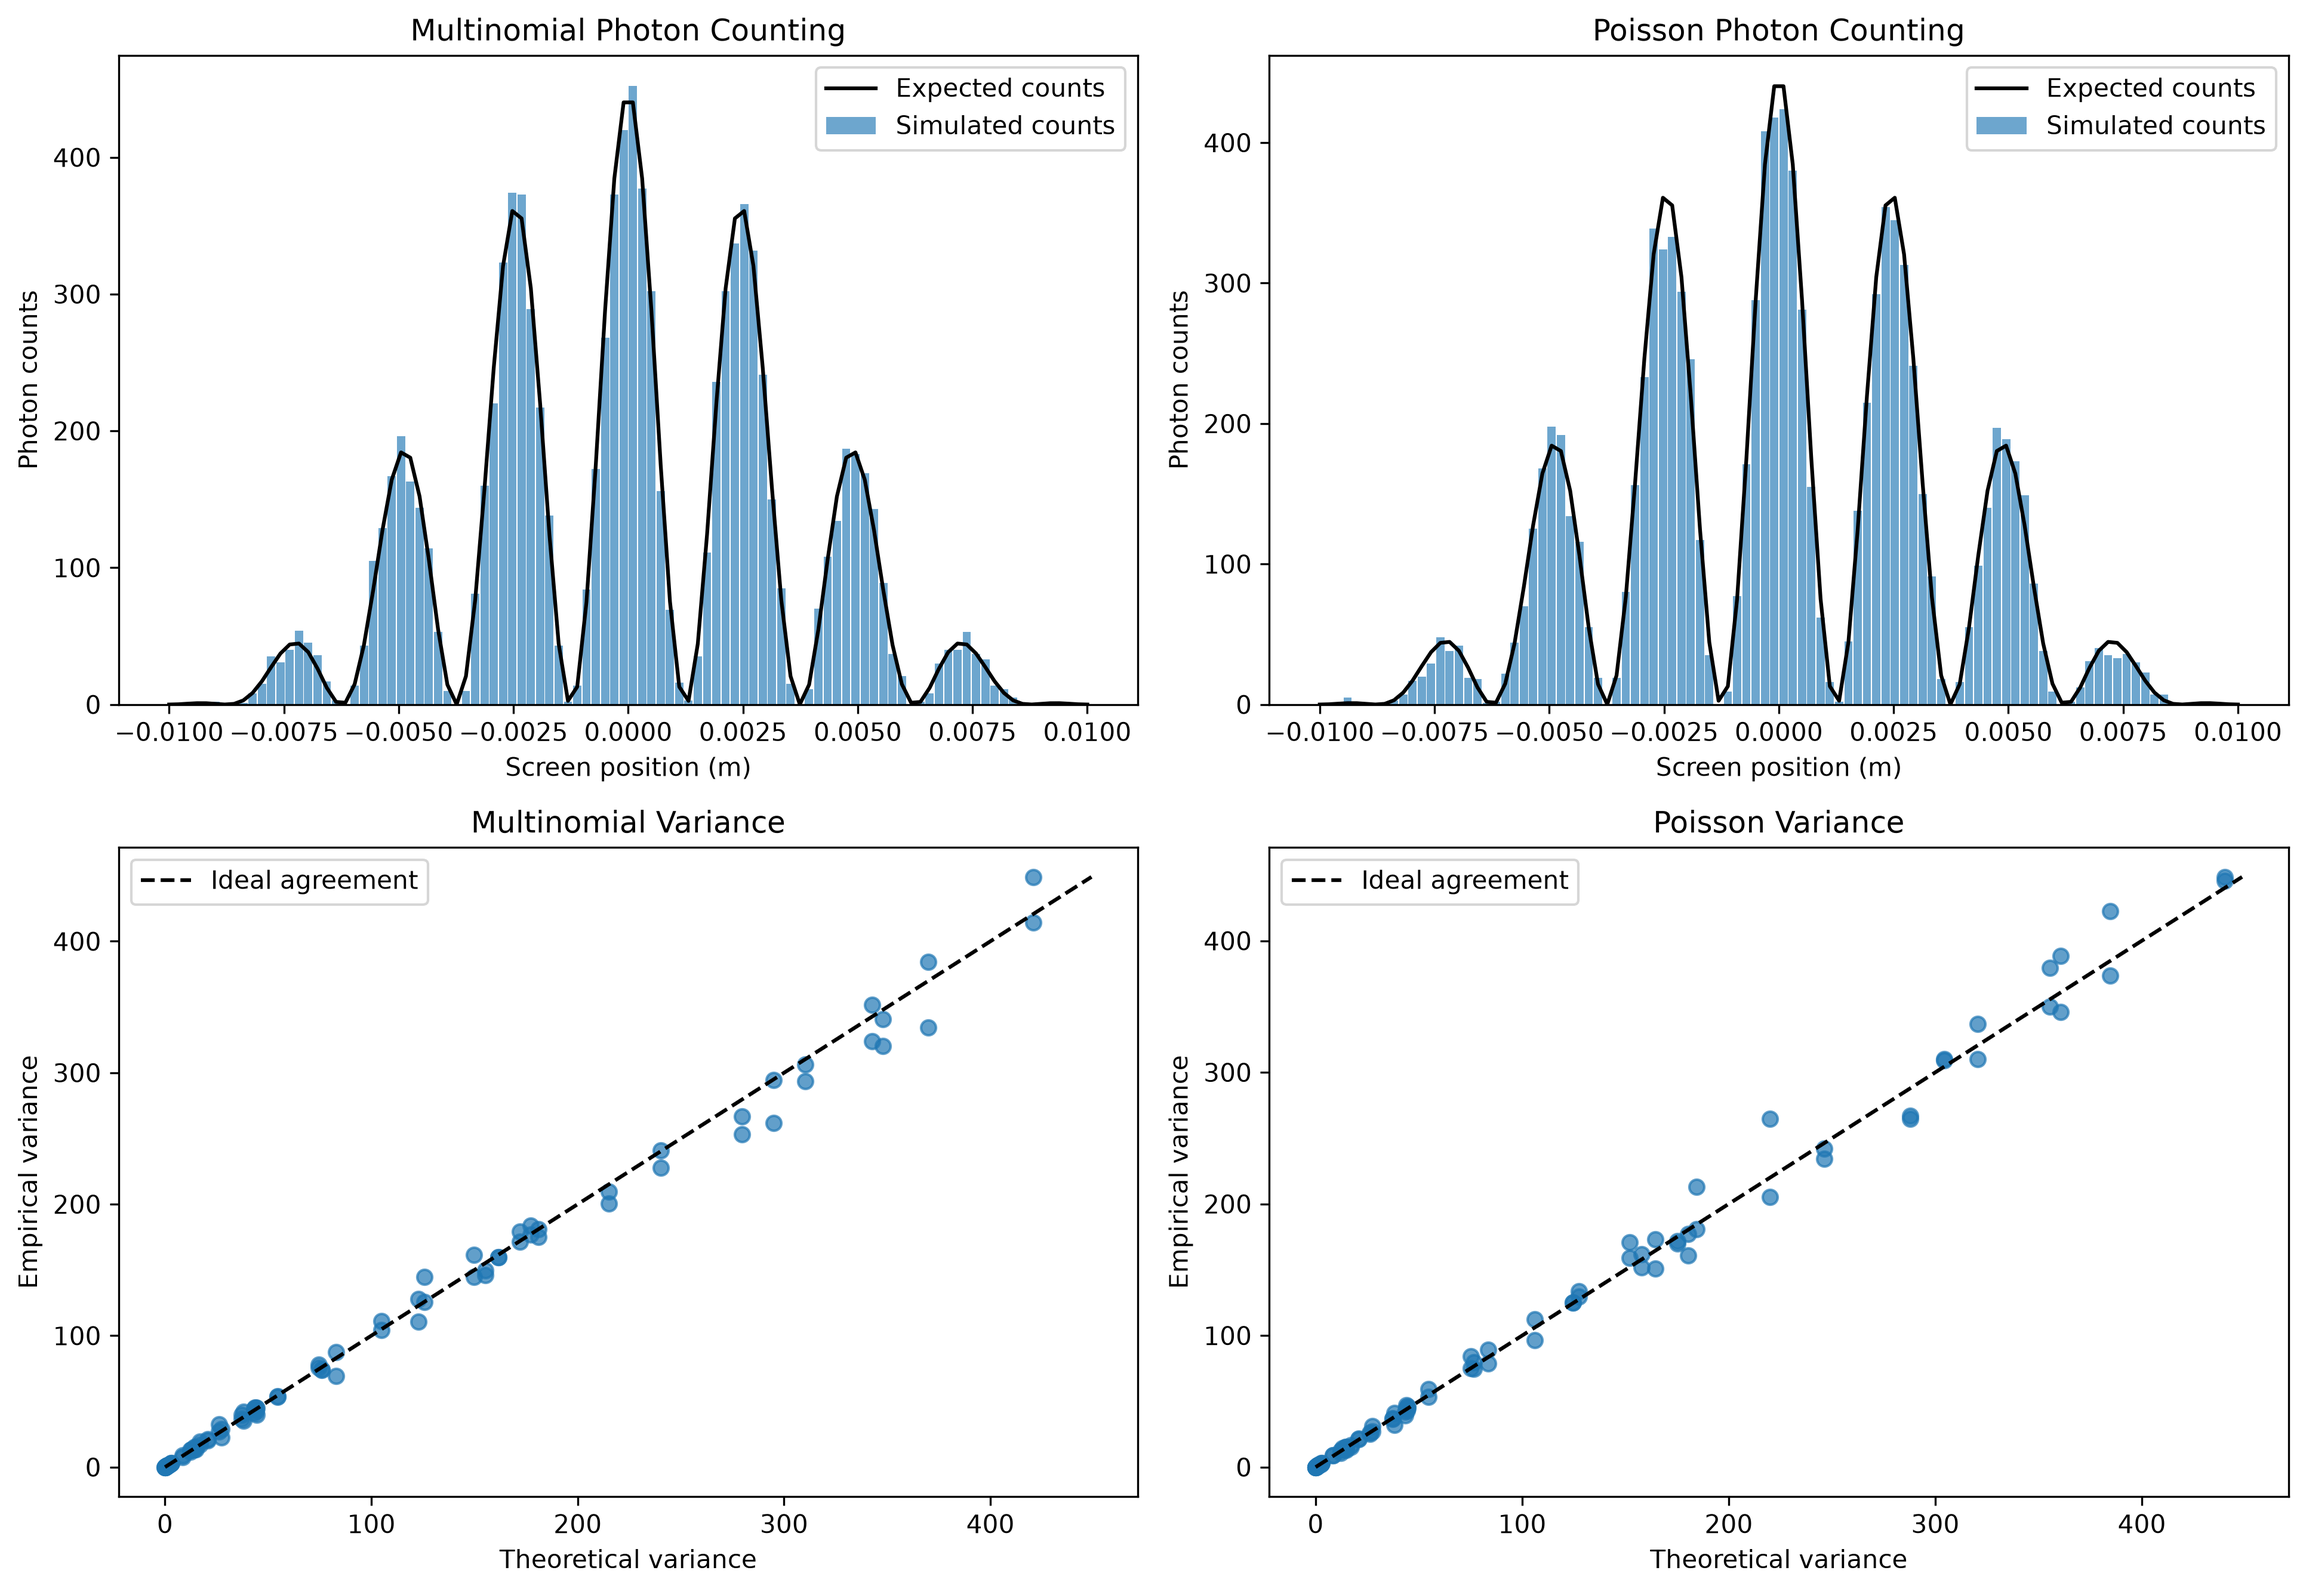
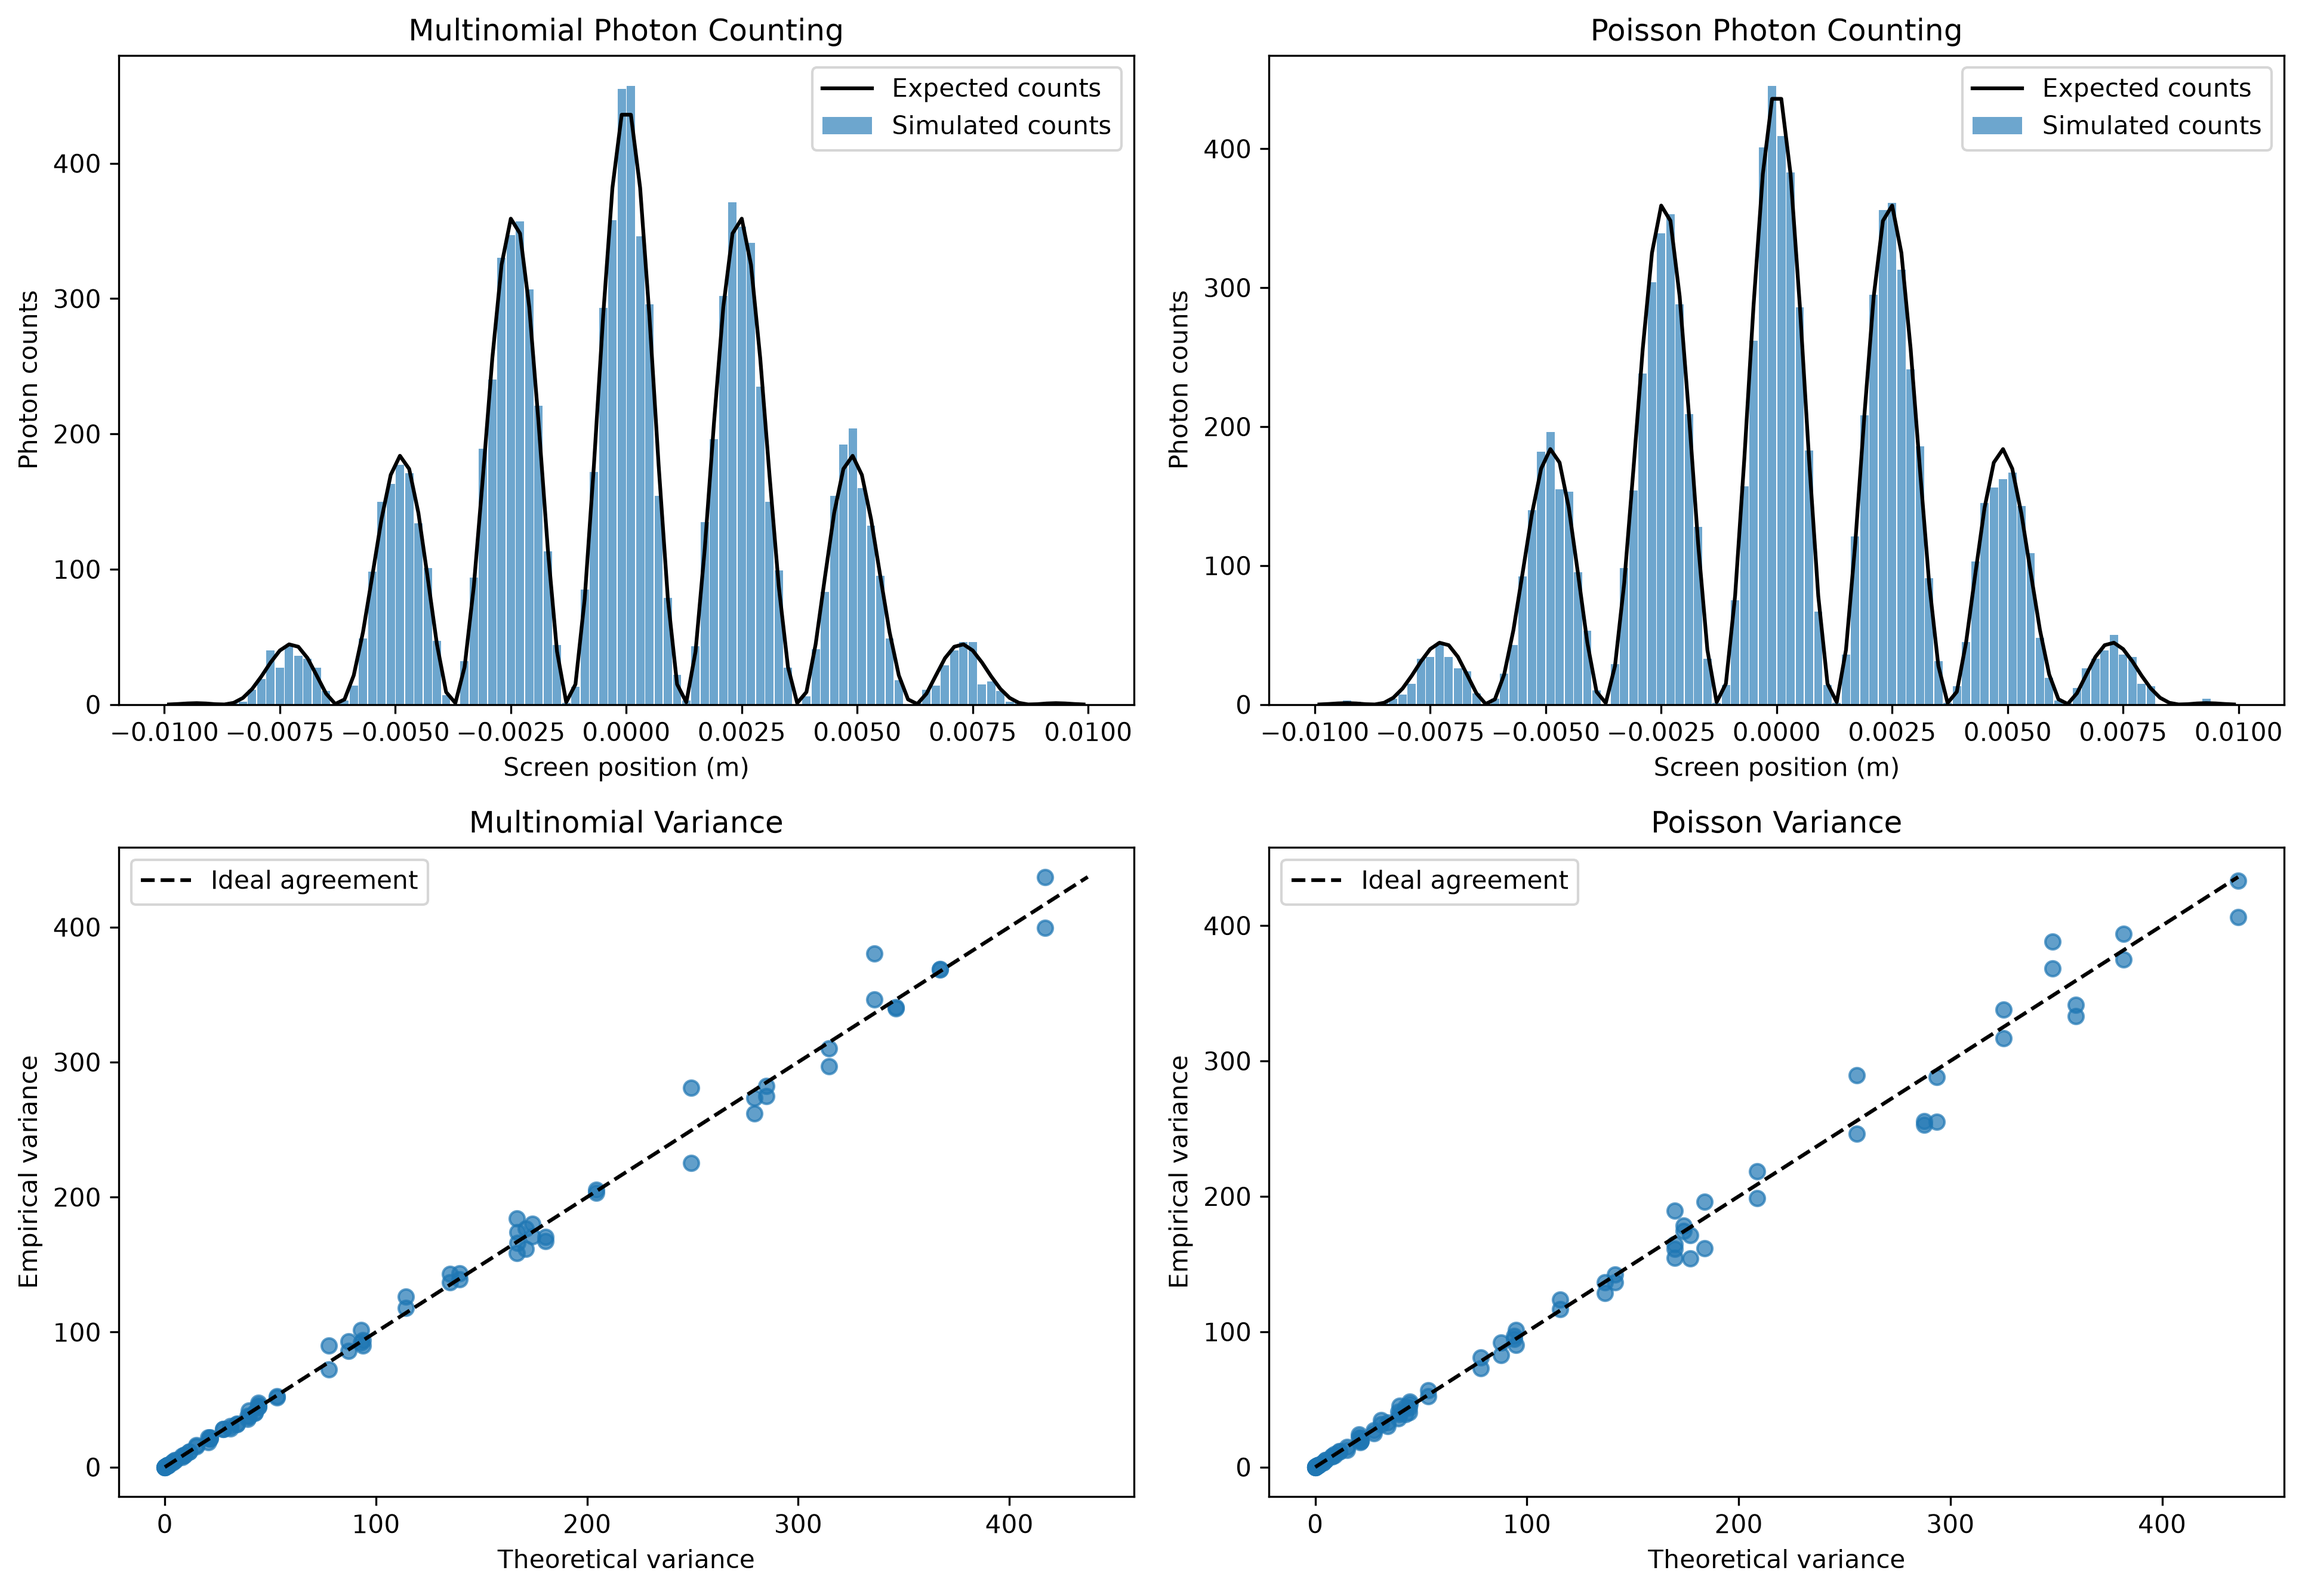
Improve photon counting statistics simulation

diff --git a/simulations/photon_statistics.py b/simulations/photon_statistics.py
@@ -36,12 +36,17 @@ def main():
     total_photons = 10000
     number_of_trials = 500
 
-    x = np.linspace(-0.01, 0.01, number_of_bins)
+    # Define spatial bins
+    bin_edges = np.linspace(-0.01, 0.01, number_of_bins + 1)
+    x = 0.5 * (bin_edges[:-1] + bin_edges[1:])
+    bin_widths = np.diff(bin_edges)
 
+    # Calculate probability density at bin centers
     probability_density = calculate_probability_density(x)
 
     # Normalize bin probabilities
-    bin_probabilities = probability_density / np.sum(probability_density)
+    bin_probabilities = probability_density * bin_widths
+    bin_probabilities /= np.sum(bin_probabilities)
 
     # Expected counts
     expected_counts = total_photons * bin_probabilities
@@ -172,7 +177,7 @@ def main():
 
     # Save figure
     plt.savefig(
-        "photon_counting_statistics.png",
+        "figures/photon_counting_statistics.png",
         dpi=300,
         bbox_inches="tight"
     )
